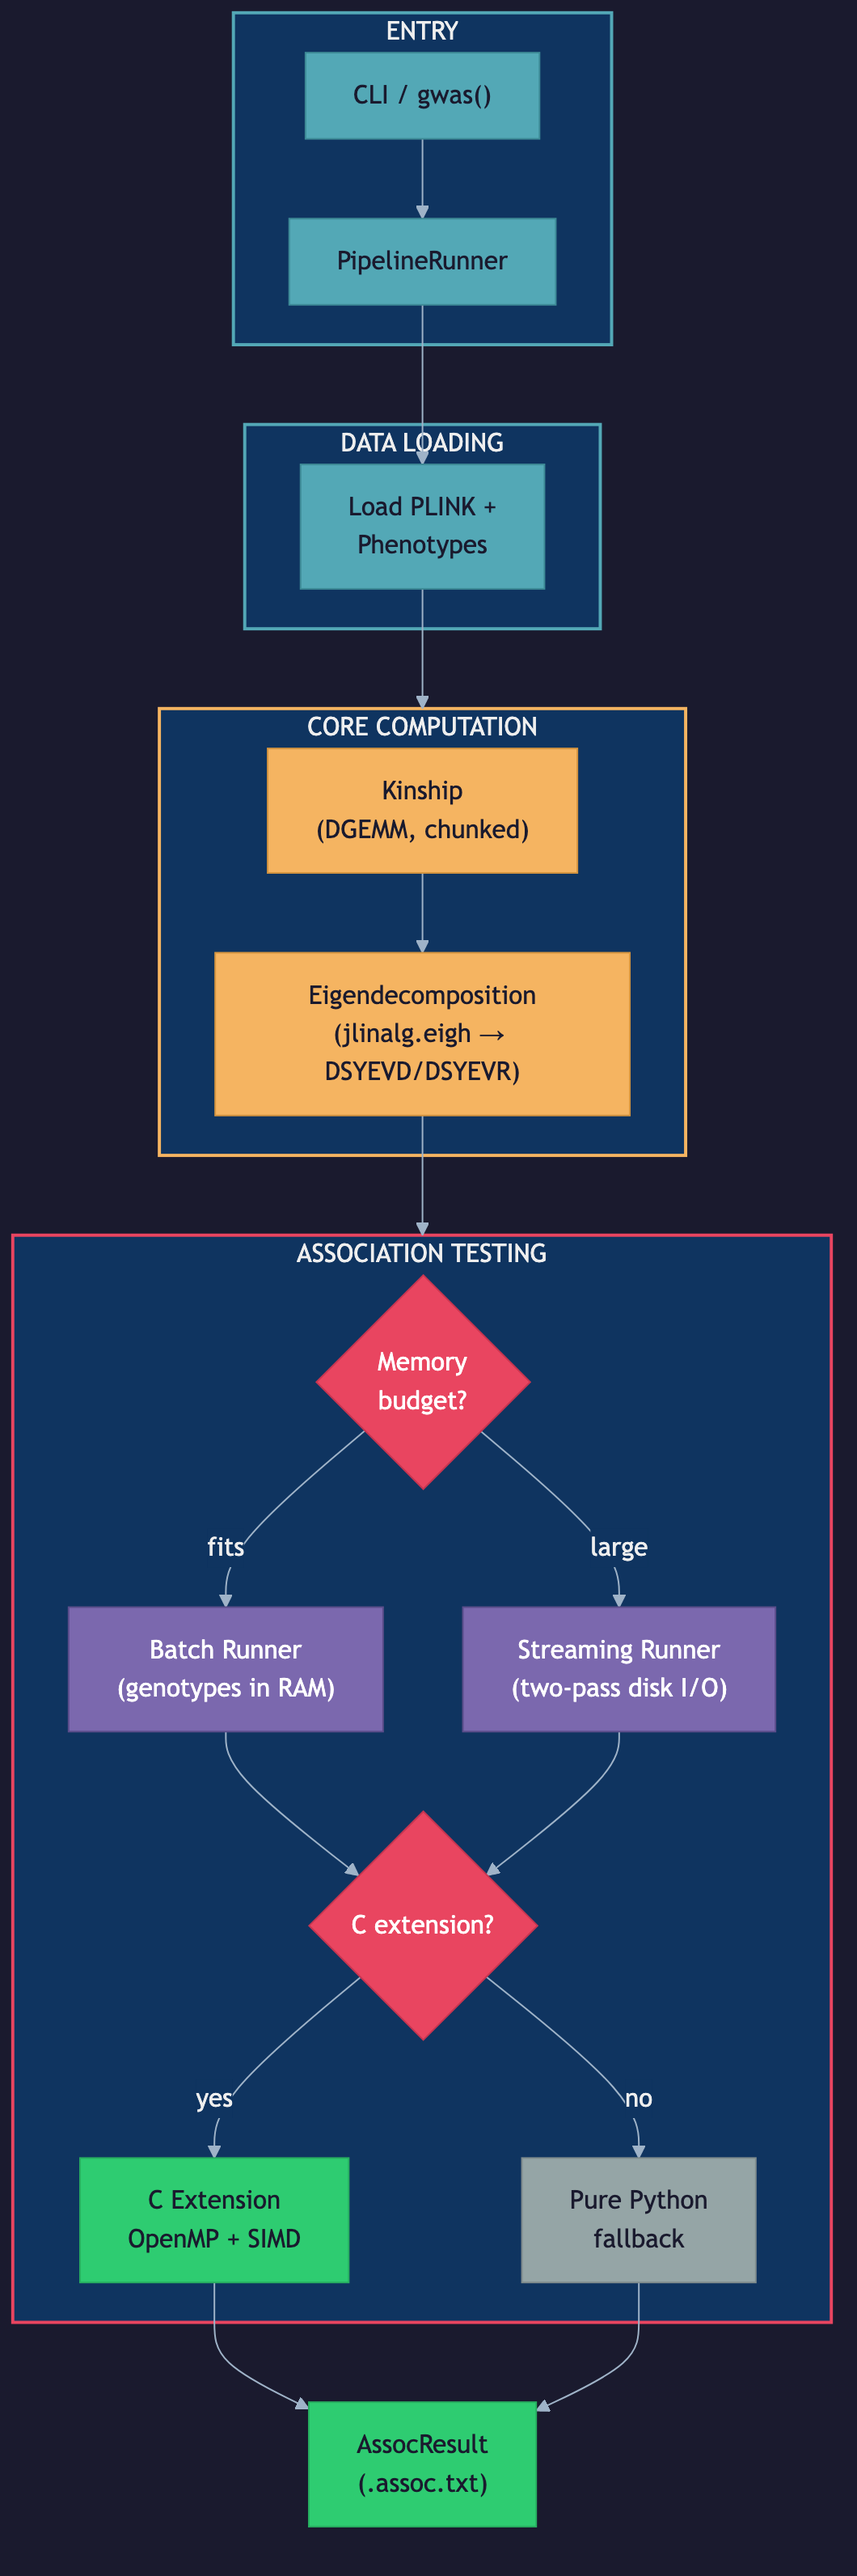
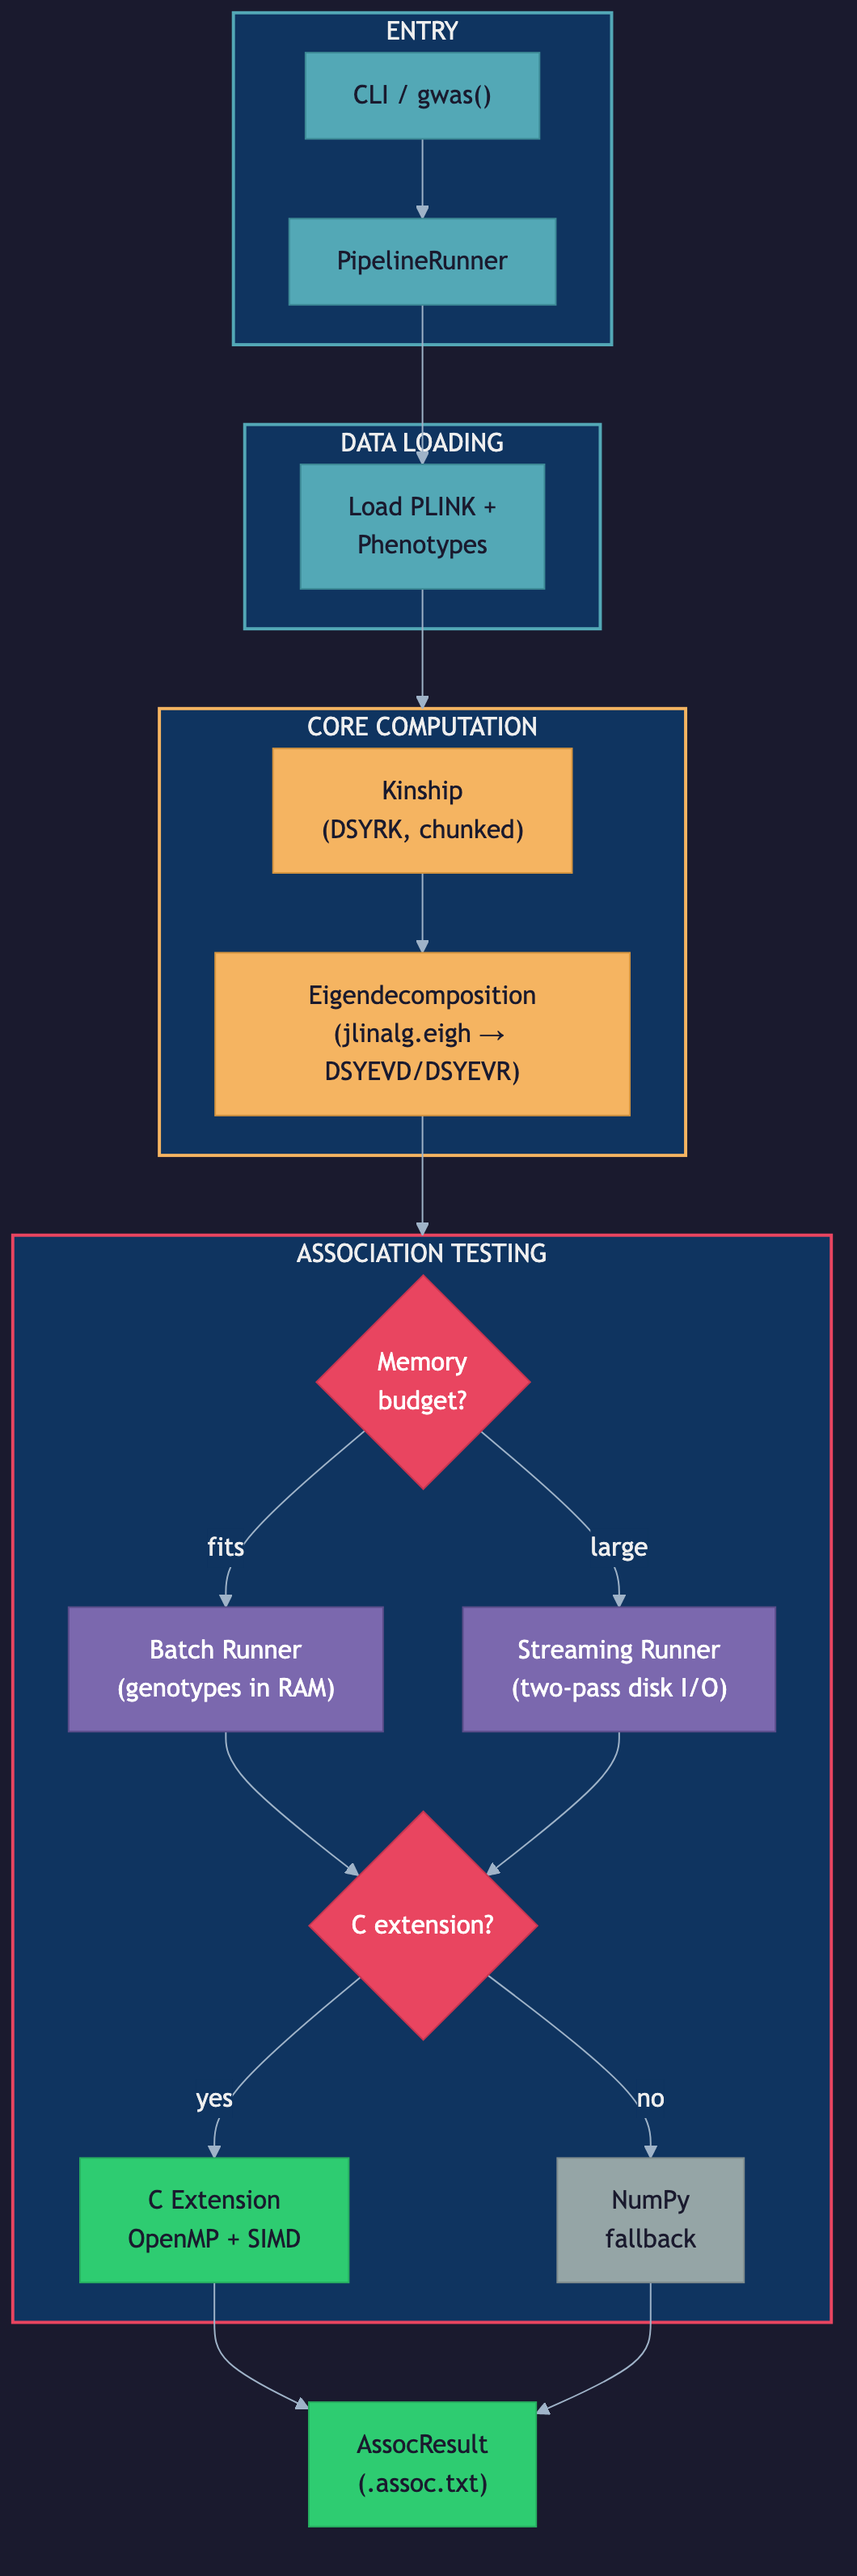
docs: correct README diagram labels and record the measured 100k peak

diff --git a/README.md b/README.md
@@ -174,7 +174,10 @@ Streaming reduces genotype memory, but kinship and eigenvectors still require
 dense matrices whose storage grows with the square of the sample count.
 ILP64 removes the BLAS integer limit; it does not remove the RAM requirement.
 At 100,000 samples, the documented eigendecomposition estimates are roughly
-240 GB with DSYEVD or 160 GB with the lower-workspace DSYEVR path.
+240 GB with DSYEVD or 160 GB with the lower-workspace DSYEVR path. The
+estimator adds a safety margin (10%, capped at 10 GB) for the process's own
+memory: a 100,000-sample Wald run measured 250 GB peak resident memory on
+2026-09-23.
 
 See [memory planning](docs/USER_GUIDE.md#memory-safety) before scaling up.
 
@@ -241,7 +244,7 @@ flowchart TD
     end
 
     subgraph CORE["CORE COMPUTATION"]
-        KIN["Kinship<br/>(DGEMM, chunked)"]
+        KIN["Kinship<br/>(DSYRK, chunked)"]
         EIG["Eigendecomposition<br/>(jlinalg.eigh → DSYEVD/DSYEVR)"]
         KIN --> EIG
     end
@@ -252,7 +255,7 @@ flowchart TD
         NPS["Streaming Runner<br/>(two-pass disk I/O)"]
         CEXT{"C extension?"}
         C["C Extension<br/>OpenMP + SIMD"]
-        PY["Pure Python<br/>fallback"]
+        PY["NumPy<br/>fallback"]
         MEM -->|fits| NP
         MEM -->|large| NPS
         NP --> CEXT
